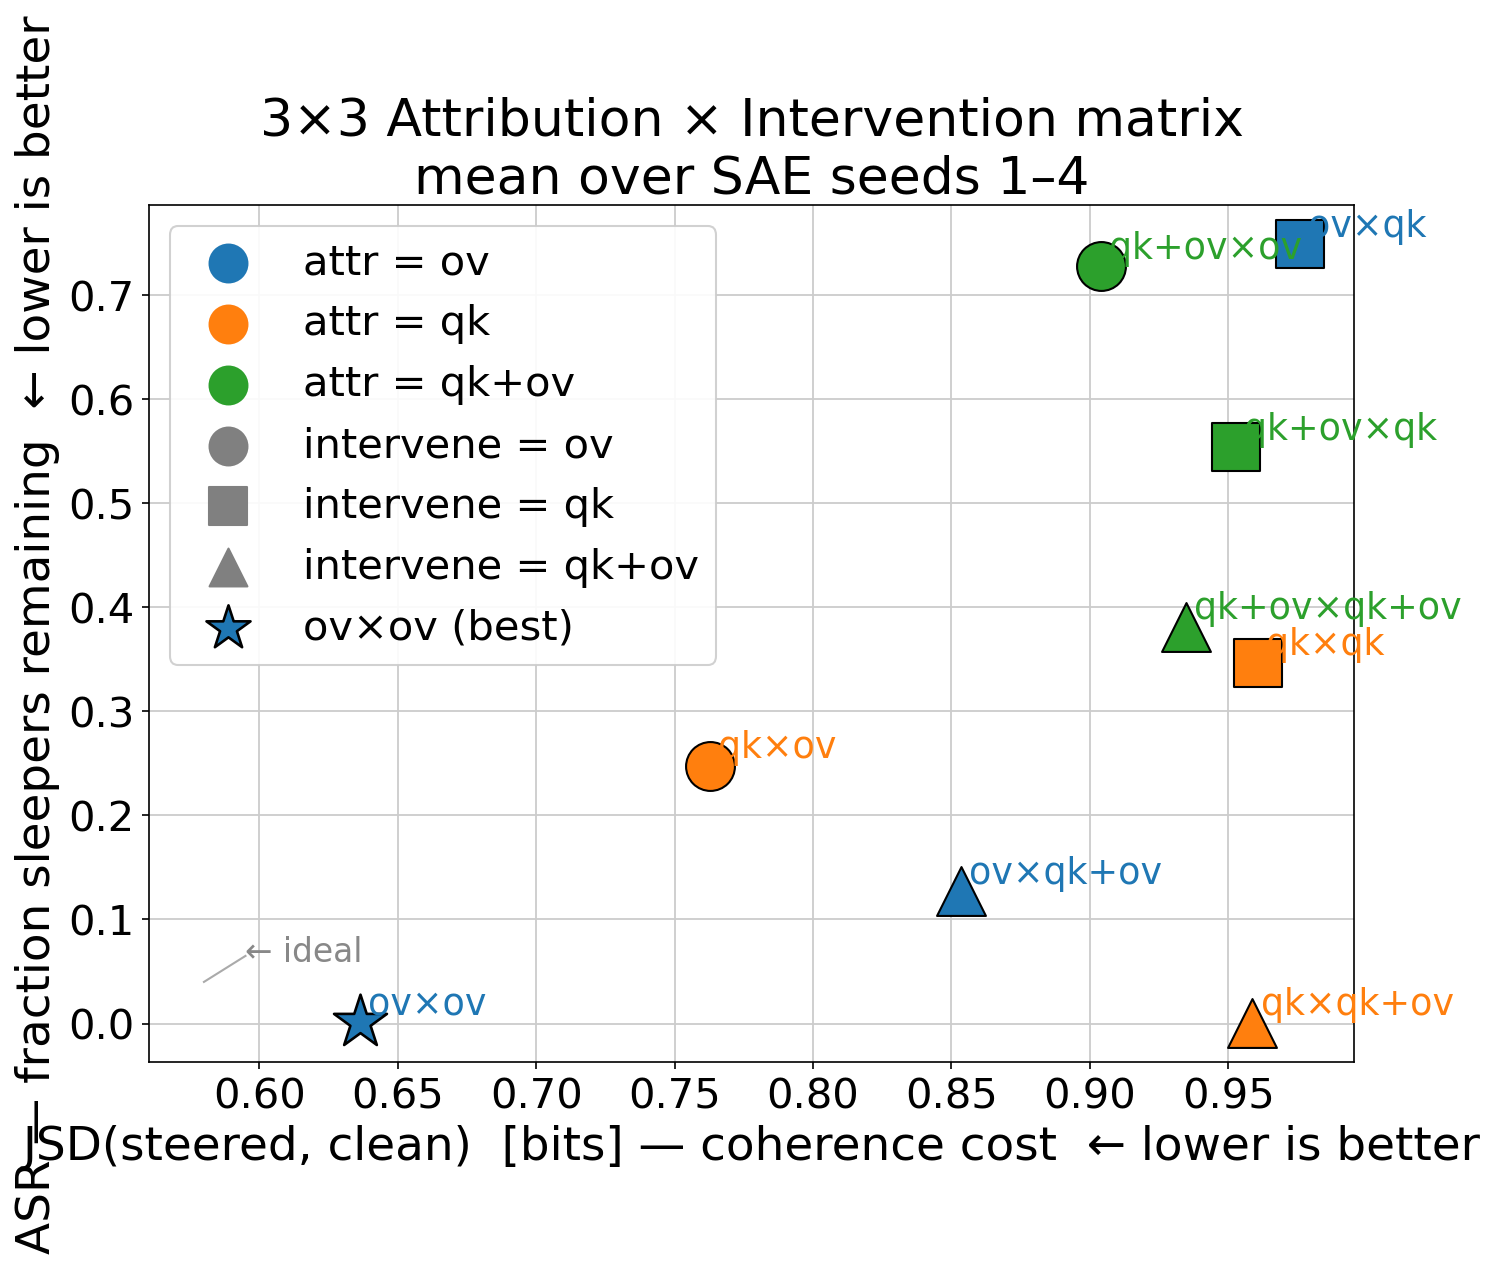
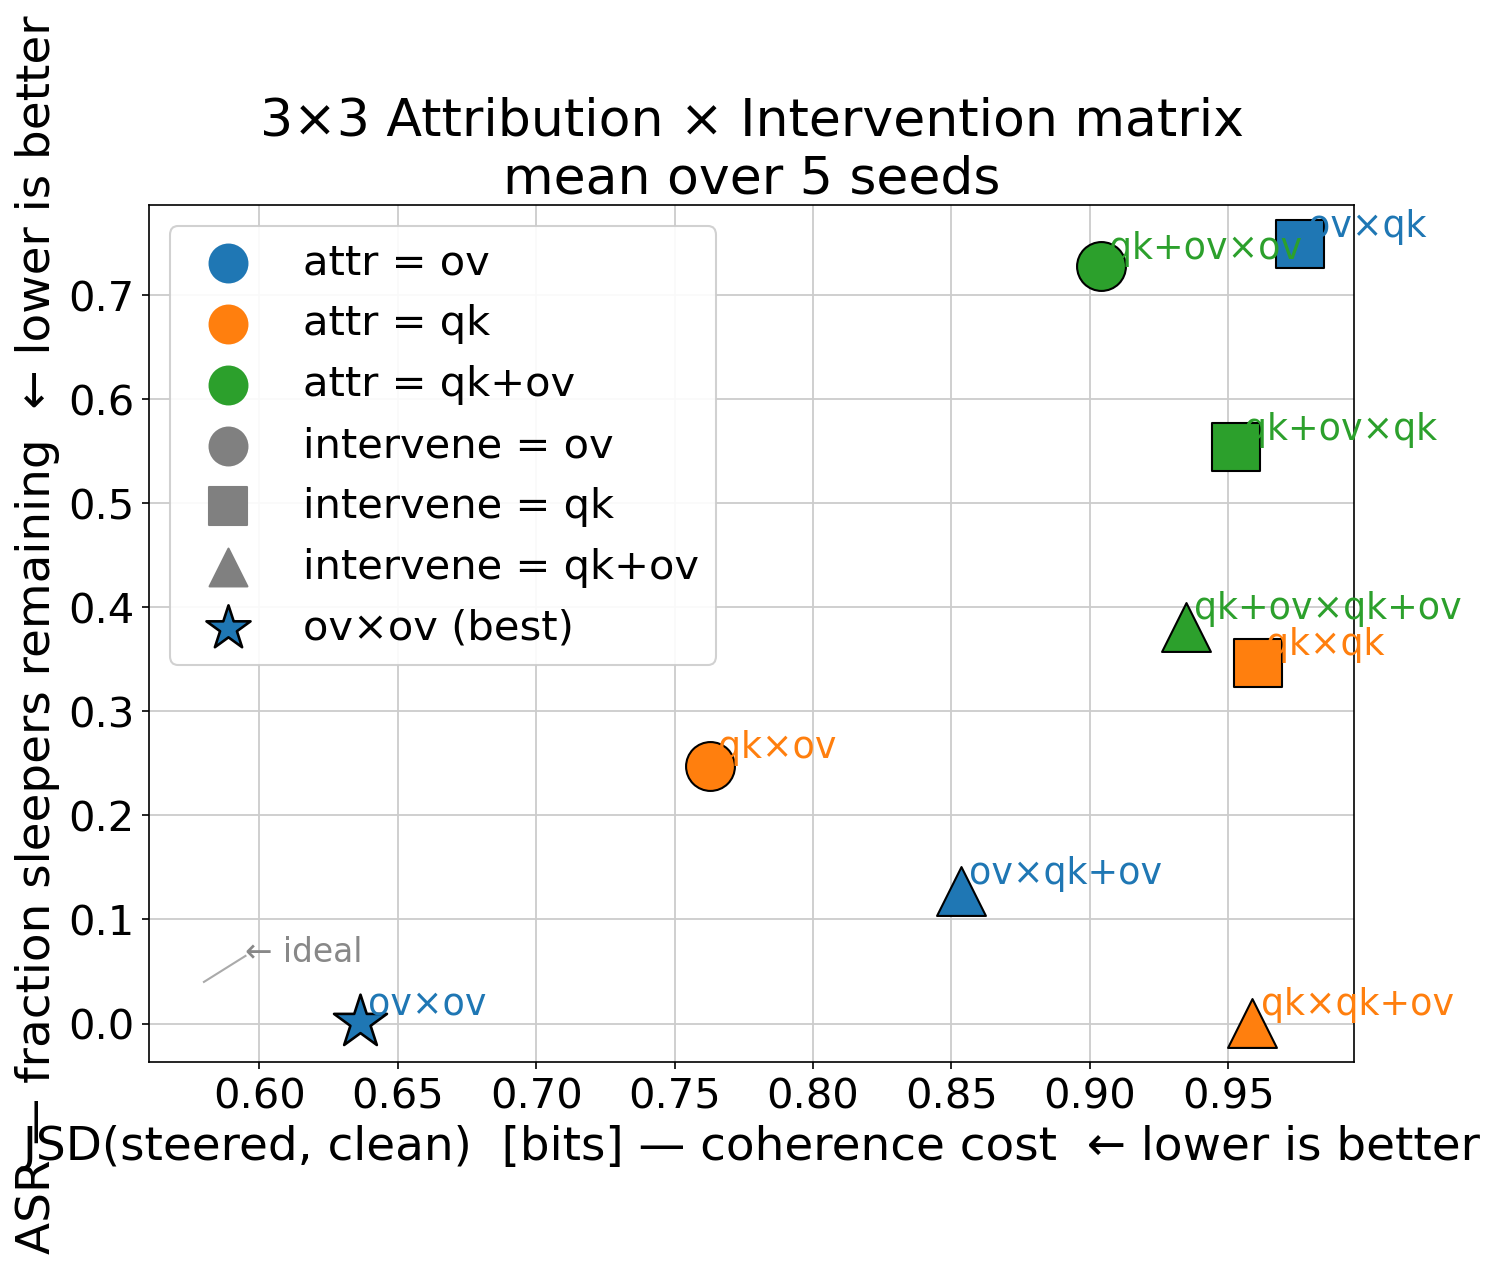
matrix_scatter: title → mean over 5 seeds

Changed region(s): [[0.2769, 0.123, 0.7385, 0.1538]]

diff --git a/scripts/plot_matrix_scatter.py b/scripts/plot_matrix_scatter.py
@@ -141,7 +141,7 @@ def main() -> None:
 
     ax.set_title(
         "3×3 Attribution × Intervention matrix\n"
-        "mean over SAE seeds 1–4",
+        "mean over 5 seeds",
         fontsize=fs_title,
     )
 
